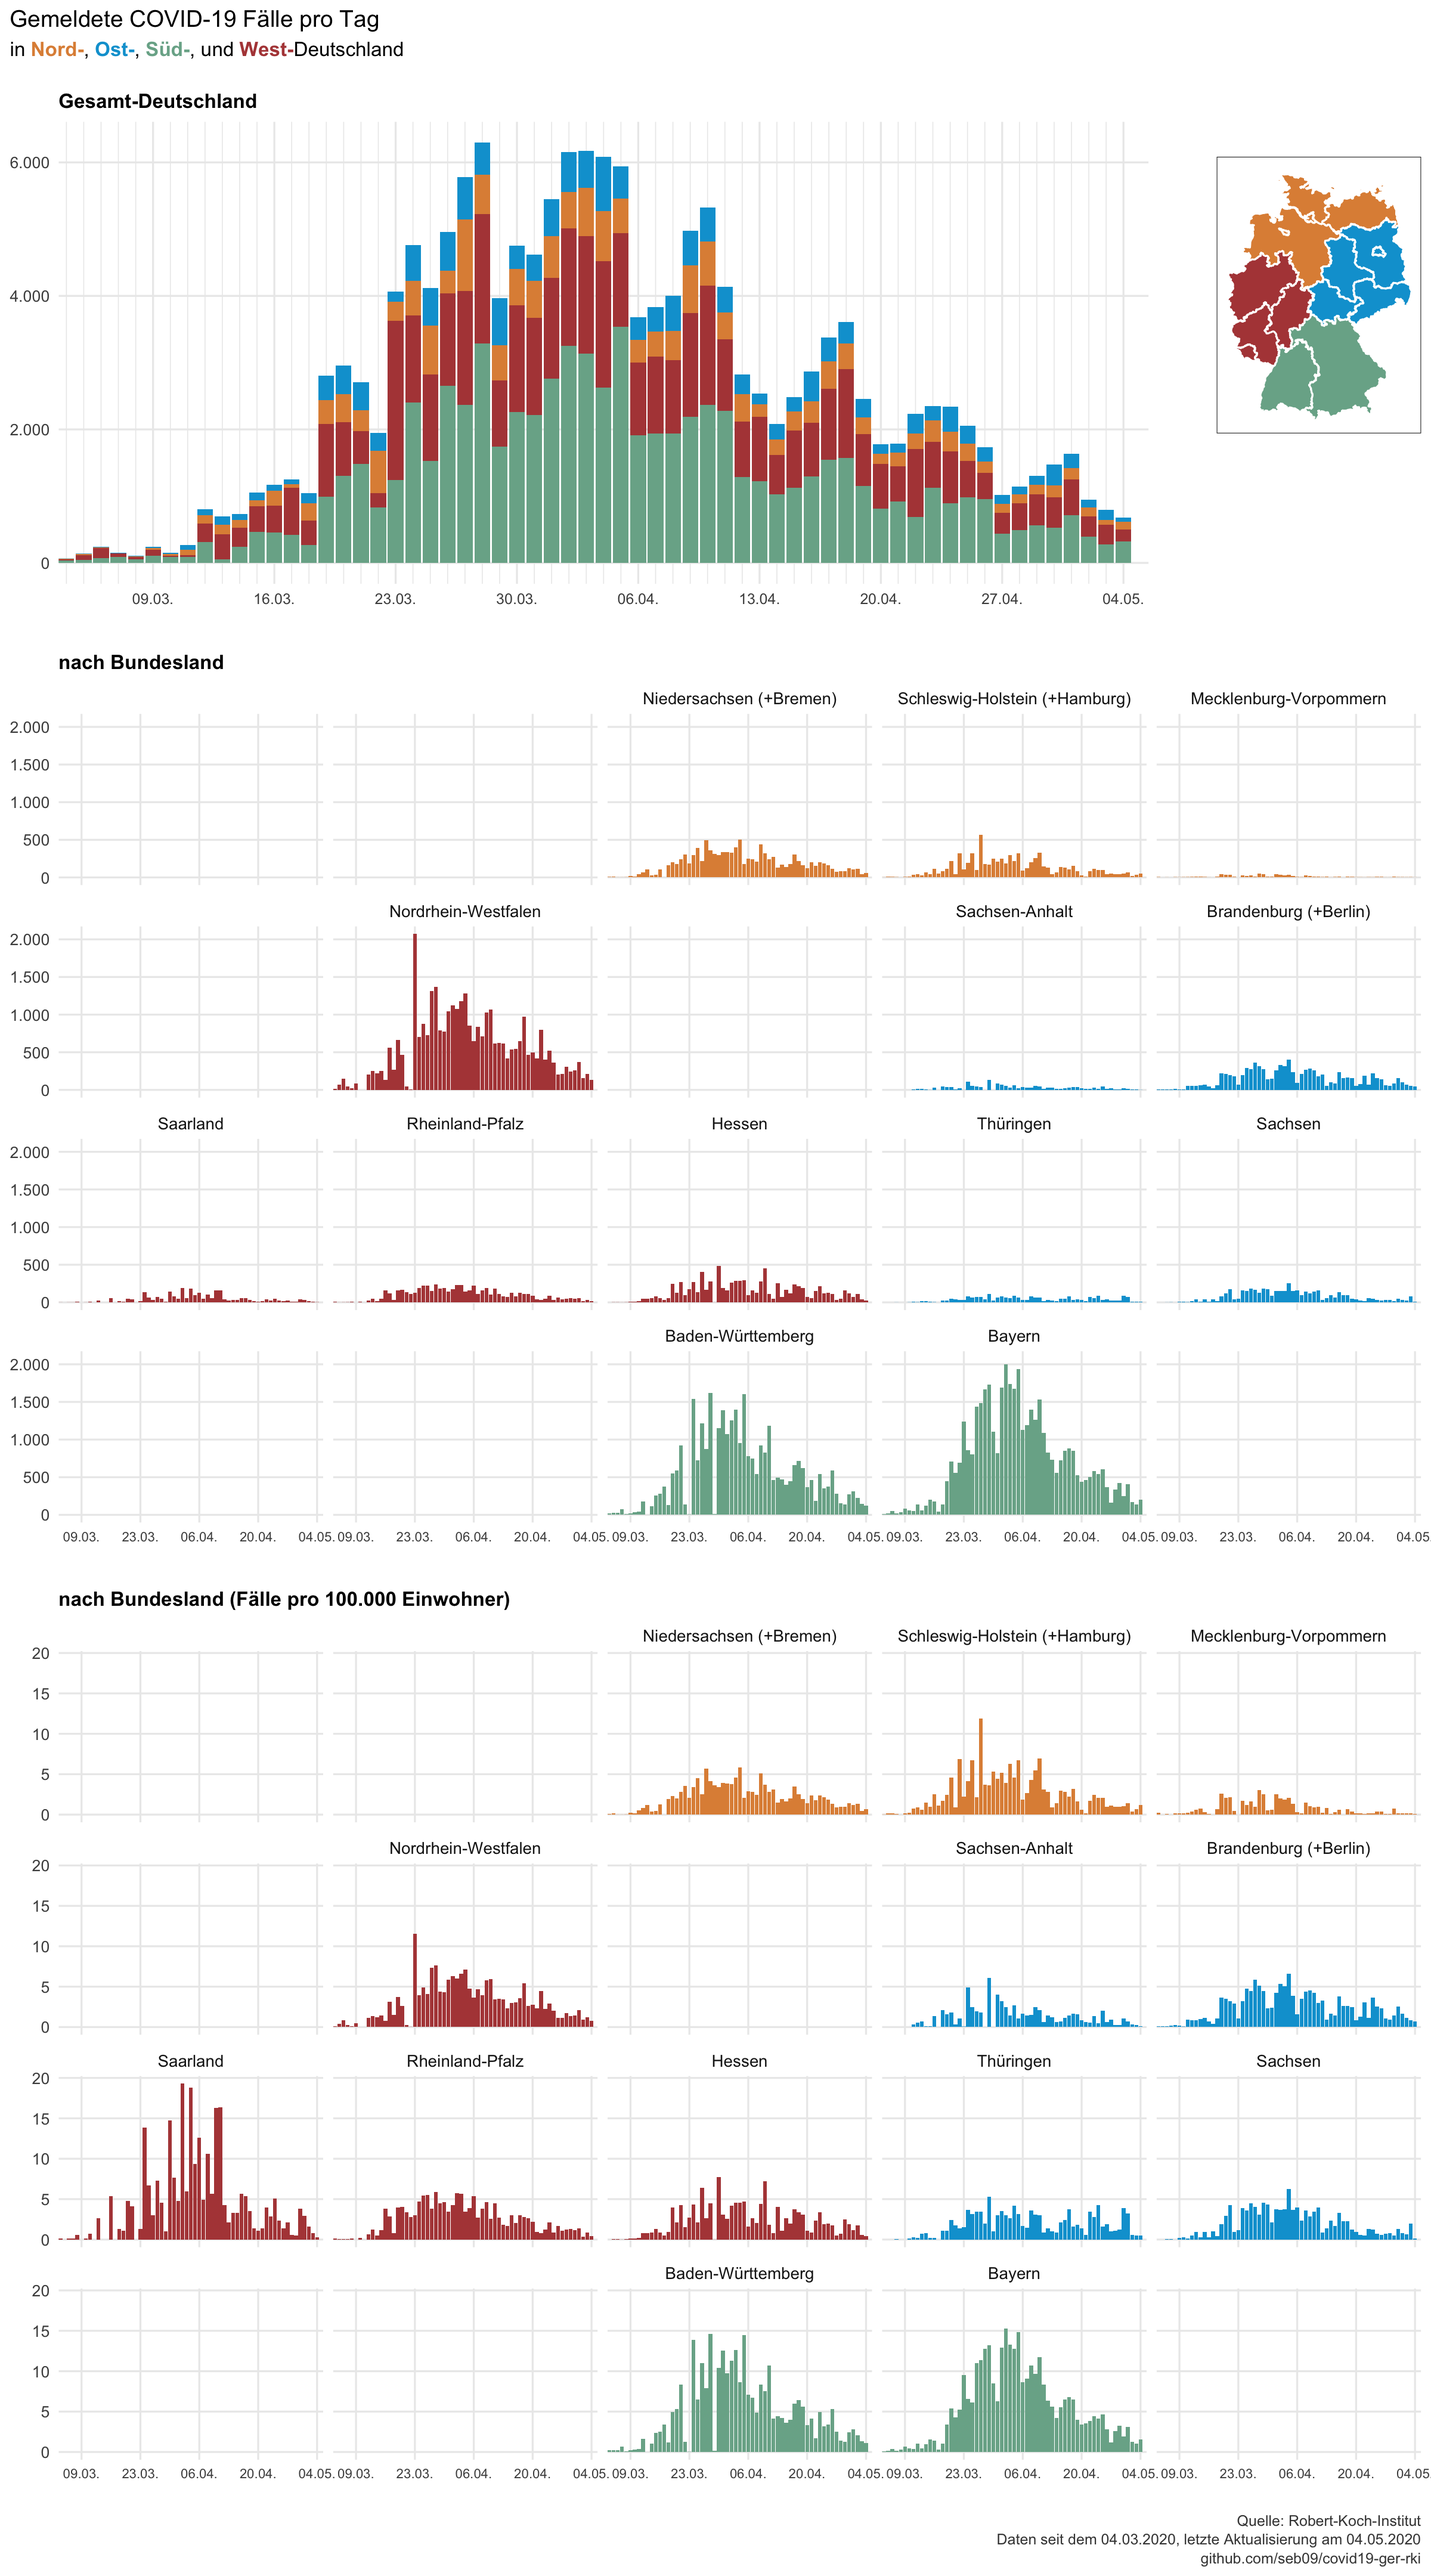
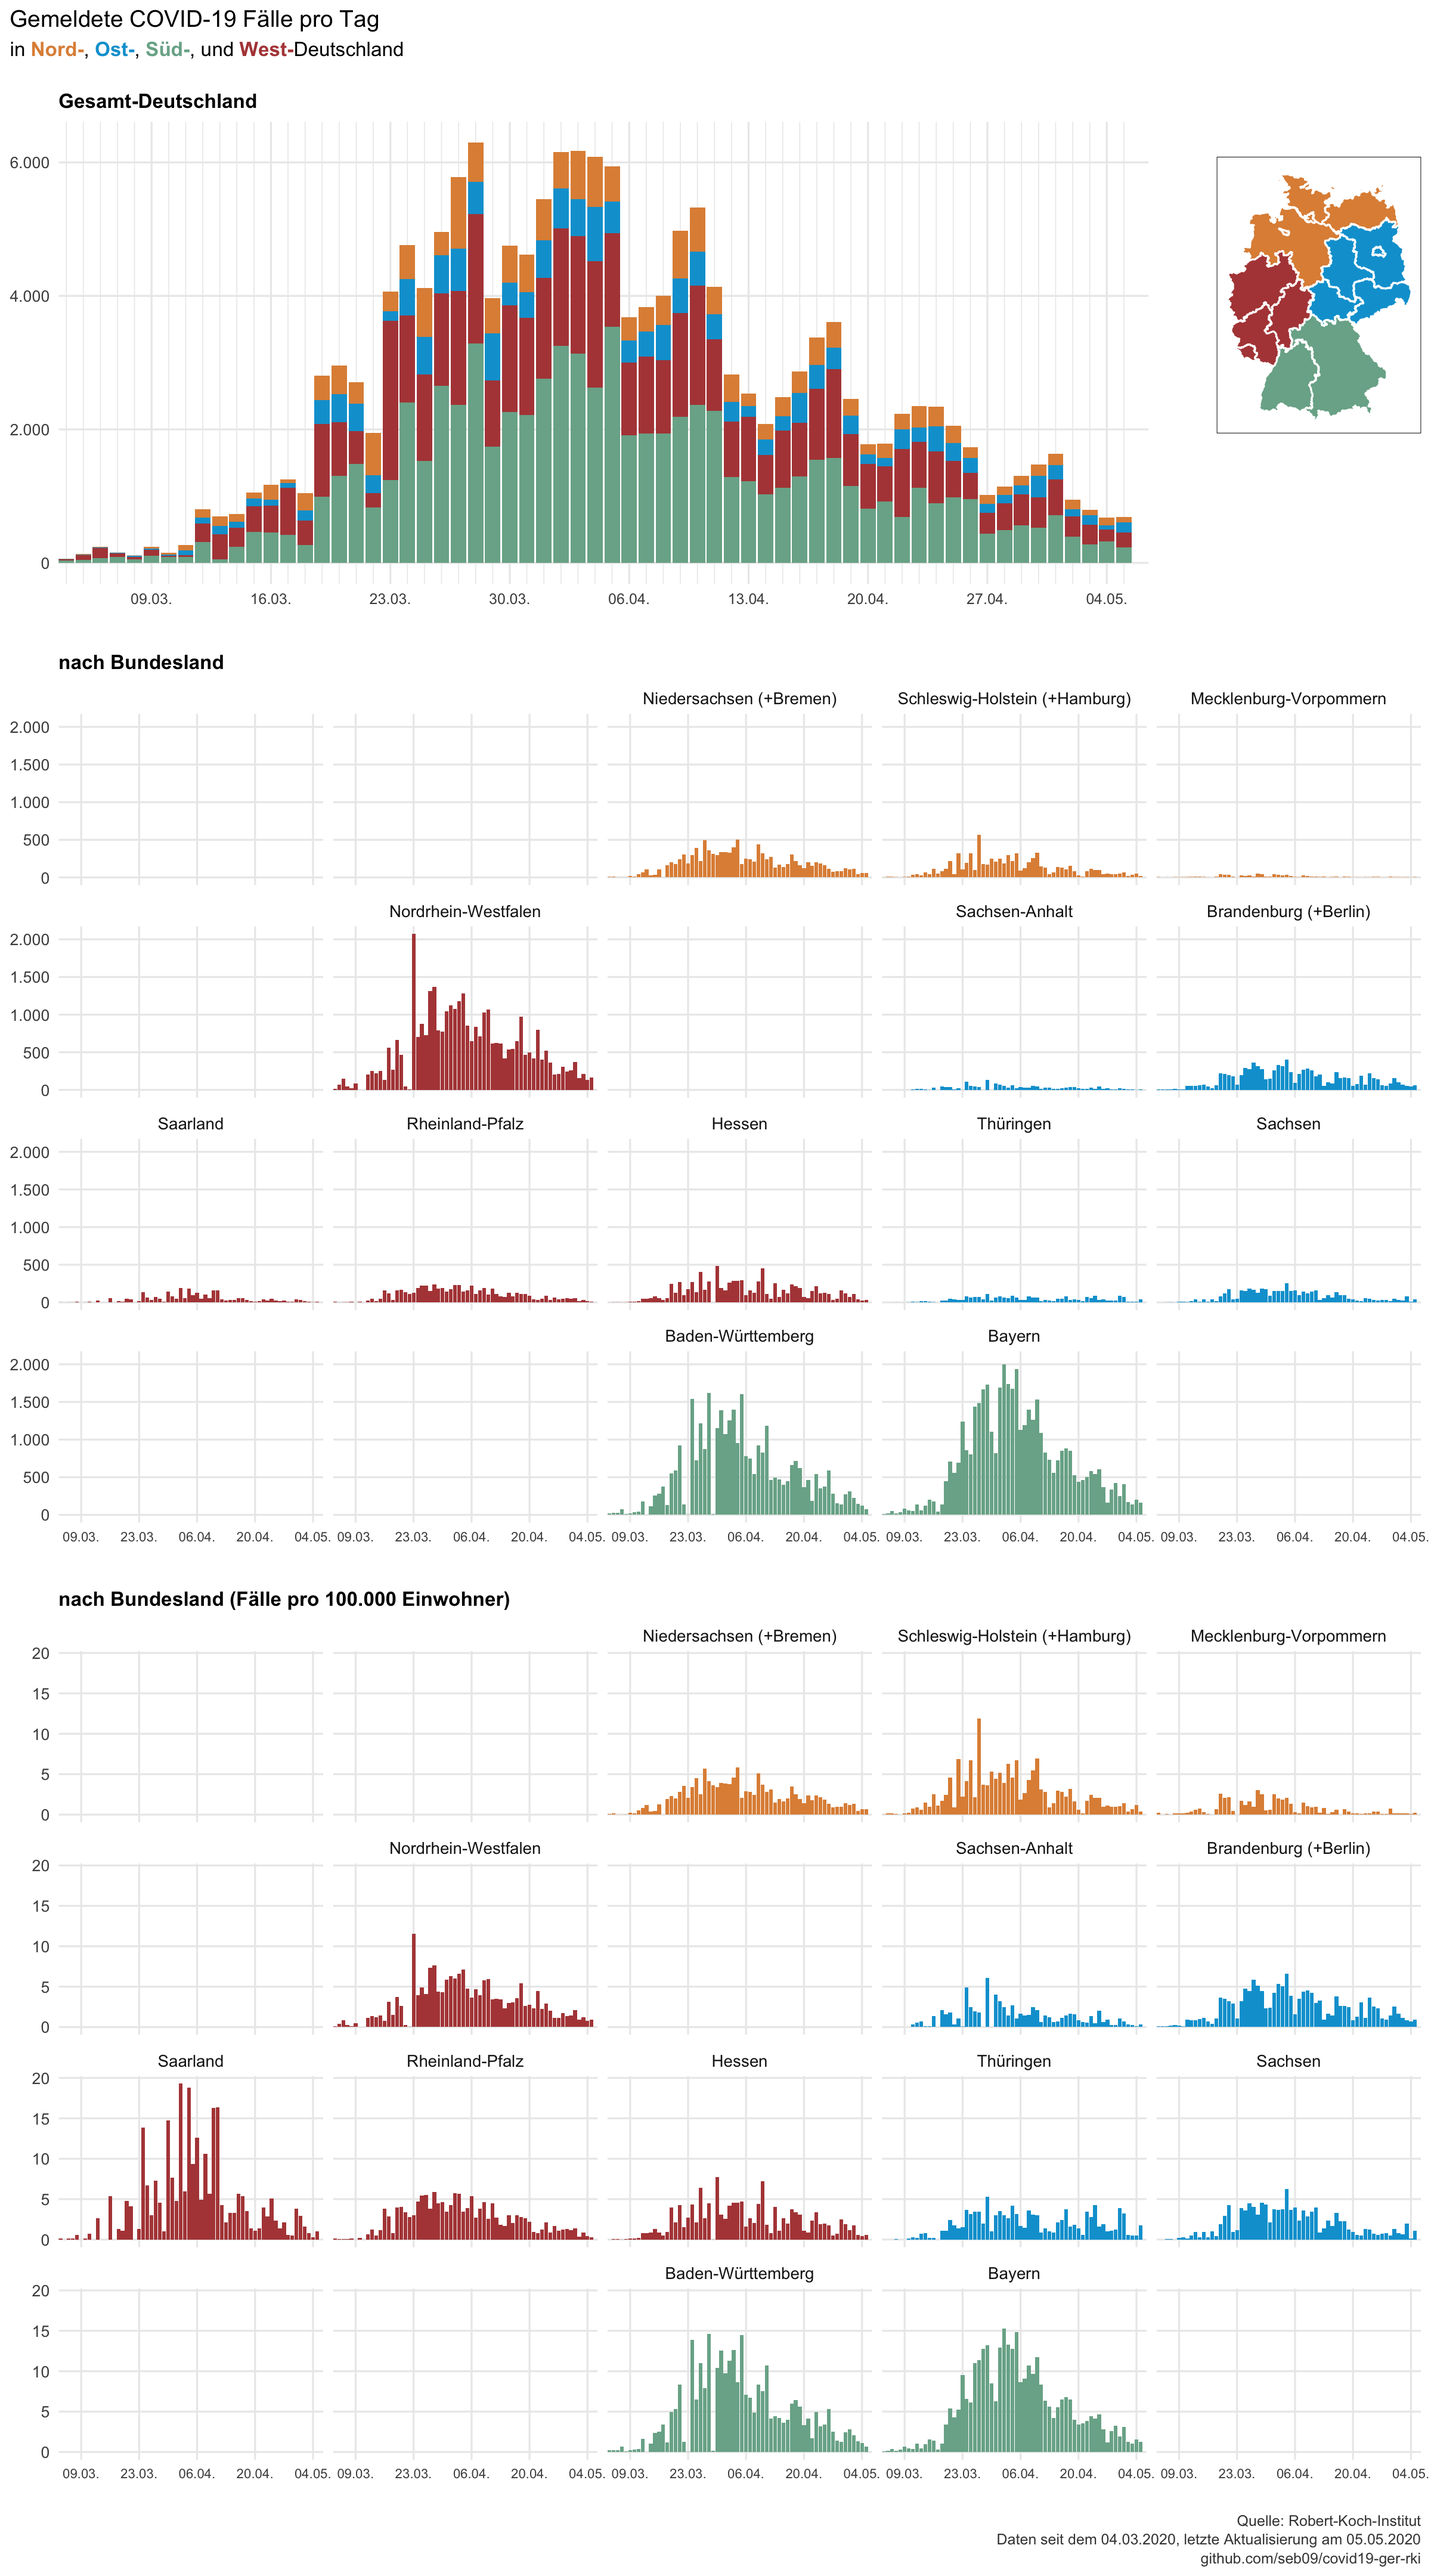
daily update 2020-05-05

diff --git a/README.md b/README.md
@@ -1,6 +1,6 @@
 Data from the Robert-Koch-Institut on COVID-19 in Germany
 ================
-Last update: 2020-05-04
+Last update: 2020-05-05
 
 This repository contains data on reported COVID-19 cases in Germany and
 its federal states that is published daily by the Robert-Koch-Institut
@@ -14,26 +14,26 @@ corona_rki %>%
   print(n = 16)
 ```
 
-    ## # A tibble: 986 x 6
+    ## # A tibble: 1,002 x 6
     ##    Datum      Bundesland      Fallzahl Todeszahl Fallzahl_neu Todeszahl_neu
     ##    <date>     <chr>              <dbl>     <dbl>        <dbl>         <dbl>
-    ##  1 2020-05-04 Baden-Württemb…    32411      1421          120             9
-    ##  2 2020-05-04 Bayern             42997      1926          205            16
-    ##  3 2020-05-04 Berlin              6010       154           34             0
-    ##  4 2020-05-04 Brandenburg         2914       122            9             0
-    ##  5 2020-05-04 Bremen               893        30           18             0
-    ##  6 2020-05-04 Hamburg             4636       166            5             2
-    ##  7 2020-05-04 Hessen              8549       372           25             2
-    ##  8 2020-05-04 Mecklenburg-Vo…      699        18            1             0
-    ##  9 2020-05-04 Niedersachsen      10325       456           42             3
-    ## 10 2020-05-04 Nordrhein-West…    33560      1290          132             3
-    ## 11 2020-05-04 Rheinland-Pfalz     6150       177           17             1
-    ## 12 2020-05-04 Saarland            2608       139            3             1
-    ## 13 2020-05-04 Sachsen             4702       167            6             2
-    ## 14 2020-05-04 Sachsen-Anhalt      1578        45            2             1
-    ## 15 2020-05-04 Schleswig-Hols…     2788       113           50             0
-    ## 16 2020-05-04 Thüringen           2355        96           10             3
-    ## # … with 970 more rows
+    ##  1 2020-05-05 Baden-Württemb…    32482      1452           71            31
+    ##  2 2020-05-05 Bayern             43162      1949          165            23
+    ##  3 2020-05-05 Berlin              6042       154           32             0
+    ##  4 2020-05-05 Brandenburg         2940       123           26             1
+    ##  5 2020-05-05 Bremen               895        31            2             1
+    ##  6 2020-05-05 Hamburg             4644       172            8             6
+    ##  7 2020-05-05 Hessen              8585       381           36             9
+    ##  8 2020-05-05 Mecklenburg-Vo…      703        19            4             1
+    ##  9 2020-05-05 Niedersachsen      10380       463           55             7
+    ## 10 2020-05-05 Nordrhein-West…    33728      1332          168            42
+    ## 11 2020-05-05 Rheinland-Pfalz     6160       182           10             5
+    ## 12 2020-05-05 Saarland            2618       139           10             0
+    ## 13 2020-05-05 Sachsen             4745       171           43             4
+    ## 14 2020-05-05 Sachsen-Anhalt      1585        46            7             1
+    ## 15 2020-05-05 Schleswig-Hols…     2799       118           11             5
+    ## 16 2020-05-05 Thüringen           2392        99           37             3
+    ## # … with 986 more rows
 
 Data is downloaded each day at 11am from the [website of the
 RKI](https://www.rki.de/DE/Content/InfAZ/N/Neuartiges_Coronavirus/Fallzahlen.html)
